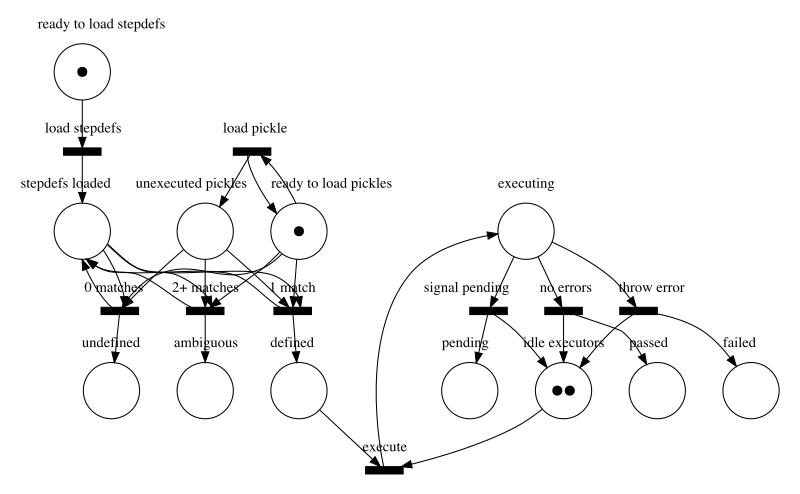
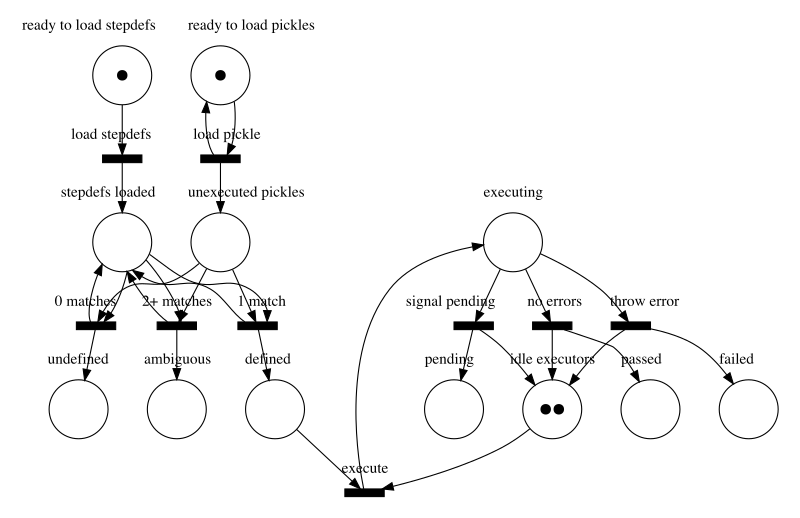
Remove 'ready to load pickler' -> '*match' arc

diff --git a/cucumber-protocol/spec/petri_net_spec.rb b/cucumber-protocol/spec/petri_net_spec.rb
@@ -30,30 +30,40 @@ describe PetriNet do
     end
 
     it 'only allows "load stepdefs" once' do
-      @pn.fire("load stepdefs".to_sym)
+      @pn.fire("load stepdefs")
       expect do
-        @pn.fire("load stepdefs".to_sym)
+        @pn.fire("load stepdefs")
       end.to raise_error('Cannot fire: load stepdefs')
     end
     
     it 'allows execution of 5 with 2 executors' do
-      @pn.fire("load pickle".to_sym)
-      @pn.fire("load pickle".to_sym)
-      @pn.fire("load pickle".to_sym)
-      @pn.fire("load pickle".to_sym)
-      @pn.fire("load pickle".to_sym)
-      @pn.fire("load stepdefs".to_sym)
-      @pn.fire("1 match".to_sym)
-      @pn.fire("0 matches".to_sym) # TODO: Fails here. Bug in Petri Net definition!
-      @pn.fire("2+ matches".to_sym)
-      @pn.fire("1 match".to_sym)
-      @pn.fire("1 match".to_sym)
-      @pn.fire("execute".to_sym)
-      @pn.fire("execute".to_sym)
-      @pn.fire("no errors".to_sym)
-      @pn.fire("execute".to_sym)
-      @pn.fire("no errors".to_sym)
-      @pn.fire("no errors".to_sym)
+      @pn.fire("load pickle")
+      @pn.fire("load pickle")
+      @pn.fire("load pickle")
+      @pn.fire("load pickle")
+      @pn.fire("load pickle")
+      @pn.fire("load stepdefs")
+      @pn.fire("1 match")
+      @pn.fire("0 matches") # TODO: Fails here. Bug in Petri Net definition!
+      @pn.fire("2+ matches")
+      @pn.fire("1 match")
+      @pn.fire("1 match")
+      @pn.fire("execute")
+      @pn.fire("execute")
+      @pn.fire("no errors")
+      @pn.fire("execute")
+      @pn.fire("no errors")
+      @pn.fire("no errors")
+    end
+
+    it 'does not allow pickle loading after execution starts' do
+      @pn.fire("load stepdefs")
+      @pn.fire("load pickle")
+      @pn.fire("1 match")
+      @pn.fire("execute")
+      expect do
+        @pn.fire("load pickle")
+      end.to raise_error('Cannot fire: load pickle')
     end
   end
 end

diff --git a/cucumber-protocol/lib/petri_net.rb b/cucumber-protocol/lib/petri_net.rb
@@ -59,7 +59,7 @@ class PetriNet
   end
 
   def fire(transition_name)
-    transition = @transitions[transition_name]
+    transition = @transitions[transition_name.to_sym]
     raise "No such transition: #{transition_name}" unless transition
     transition.fire
   end
